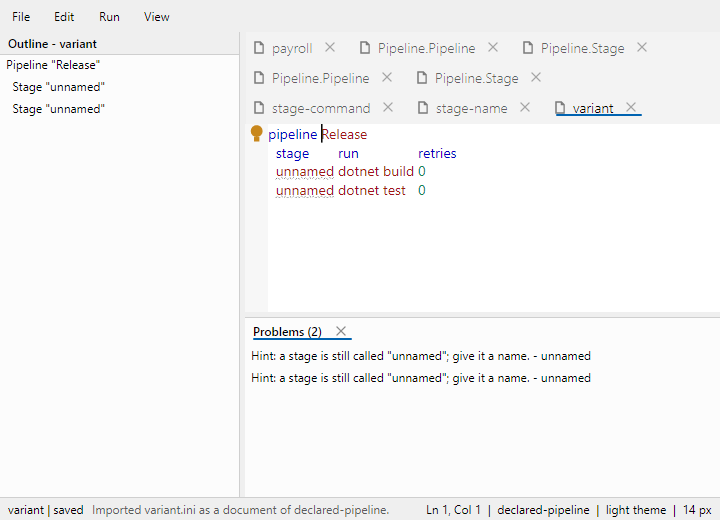
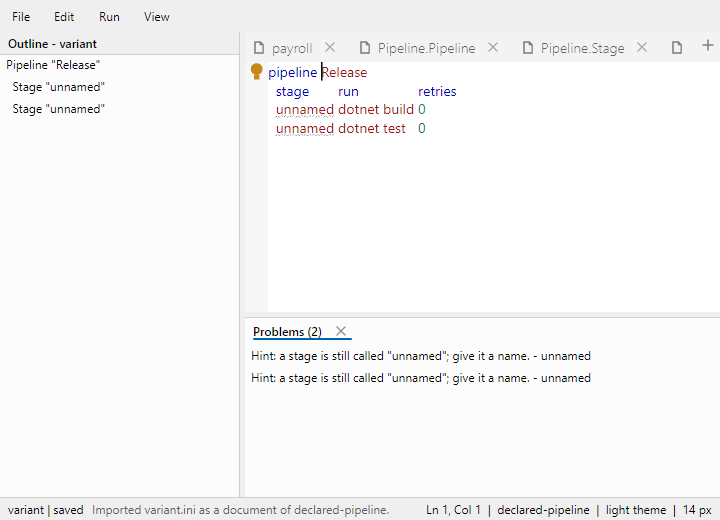
feat(workbench): a tab strip that scrolls, and the details a shell is judged on
Five things the last pass left visible:

- The document strip wrapped into rows, so eight tabs cost three rows of the page. It now scrolls
  sideways (its own ControlTheme, because the stock TabControl template has no ScrollViewer) and
  leaves a gap at the right end for a "+" that opens an empty document.
- A panel row moved the caret on SelectionChanged, which fires for arrow keys too - arrowing
  through Problems dragged the document along. The jump is a double click or Enter now, in all
  three lists.
- The window title was "Projectional Workbench" whatever was open; it names the document and
  its dirty state, which is what the task bar and Alt-Tab show.
- Closing the problems tab threw its count away. While the tab is not in the strip the status
  bar offers "2 problems" and opens it again on a press.
- A long status message was trimmed with no way to read the rest; it carries the whole sentence
  as a tooltip.

And a file dragged onto the window opens: a saved model as a document, anything else through the
importers, with "copy" shown while it is over the window so the gesture looks possible before it
is tried.

The panel close and toggle handlers now refresh the status bar, which is what makes the count
appear the moment a tab is put away.

diff --git a/src/Projectional.Workbench/MainWindow.axaml.cs b/src/Projectional.Workbench/MainWindow.axaml.cs
@@ -61,6 +61,9 @@ public sealed partial class MainWindow : Window, IDisposable
     /// <summary>The least a drag may leave of the panel area, so the splitter cannot lose it.</summary>
     private const double MinimumPanelHeight = 96;
 
+    /// <summary>What the window is called when no document decides it, and the half that stays.</summary>
+    private const string WindowTitle = "Projectional Workbench";
+
     private readonly DocumentSet _documents = new();
     private readonly WorkbenchLanguage _language = new();
     private readonly Dictionary<DocumentTab, TabItem> _tabs = [];
@@ -129,6 +132,12 @@ public sealed partial class MainWindow : Window, IDisposable
         ActualThemeVariantChanged += OnActualThemeVariantChanged;
         Documents.SelectionChanged += OnSelectionChanged;
         Opened += (_, _) => FocusActiveDocument();
+
+        // A file dragged in from the desktop is the shortest way to open it. The window is the target, so the
+        // gesture works wherever the pointer happens to be - over a panel, the outline or the page.
+        DragDrop.SetAllowDrop(this, true);
+        AddHandler(DragDrop.DragOverEvent, OnDragOver);
+        AddHandler(DragDrop.DropEvent, OnDrop);
 
         // Read once at startup: a list read per opening would be a list the menu and the shell could disagree about,
         // and a broken file must cost one empty menu rather than an exception on every open.
@@ -278,6 +287,7 @@ public sealed partial class MainWindow : Window, IDisposable
 
         Documents.Items.Add(tab);
         Documents.SelectedItem = tab;
+        tab.BringIntoView();
 
         ShowProblems();
         ShowOutput();
@@ -407,6 +417,9 @@ public sealed partial class MainWindow : Window, IDisposable
         if (_tabs.TryGetValue(document, out var tab))
         {
             Documents.SelectedItem = tab;
+
+            // The strip scrolls now, so a tab that was off the right edge has to be scrolled to.
+            tab.BringIntoView();
         }
     }
 
@@ -949,9 +962,8 @@ public sealed partial class MainWindow : Window, IDisposable
     /// editor and leaves the user where the row pointed - so the next keystroke, or Alt+Enter for the fix, acts on the
     /// finding rather than on wherever the caret happened to be.
     /// </remarks>
-    private void OnProblemChosen(object? sender, SelectionChangedEventArgs e)
-    {
-        if (Problems.SelectedItem is not ProblemEntry entry
+    private void OnProblemChosen(object? sender, RoutedEventArgs e)
+    {        if (Problems.SelectedItem is not ProblemEntry entry
             || _documents.Active is not { } document
             || !_tabs.TryGetValue(document, out var tab)
             || EditorOf(tab) is not { } editor)
@@ -1040,6 +1052,7 @@ public sealed partial class MainWindow : Window, IDisposable
     {
         _usagesClosed = true;
         ShowPanel(UsagesTab, false);
+        UpdateStatus();
     }
 
     /// <summary>Closes the output tab; the next run is what brings it back.</summary>
@@ -1047,6 +1060,7 @@ public sealed partial class MainWindow : Window, IDisposable
     {
         _outputClosed = true;
         ShowOutput();
+        UpdateStatus();
     }
 
     /// <summary>Closes the problems tab; View ▸ Panels is what brings it back.</summary>
@@ -1054,18 +1068,67 @@ public sealed partial class MainWindow : Window, IDisposable
     {
         _problemsClosed = true;
         ShowProblems();
+        UpdateStatus();
     }
 
     private void OnToggleOutputPanel(object? sender, RoutedEventArgs e)
     {
         _outputClosed = !_outputClosed;
         ShowOutput();
+        UpdateStatus();
     }
 
     private void OnToggleProblemsPanel(object? sender, RoutedEventArgs e)
     {
         _problemsClosed = !_problemsClosed;
         ShowProblems();
+        UpdateStatus();
+    }
+
+    /// <summary>Brings the problems tab back from the status bar's count.</summary>
+    private void OnShowProblemsPanel(object? sender, RoutedEventArgs e)
+    {
+        _problemsClosed = false;
+        ShowProblems();
+        PanelTabs.SelectedItem = ProblemsTab;
+        UpdateStatus();
+    }
+
+    /// <summary>Enter on a chosen row does what a double click does, so a list is usable without a pointer.</summary>
+    private void OnProblemKeyDown(object? sender, KeyEventArgs e)
+    {
+        if (e.Key != Key.Enter)
+        {
+            return;
+        }
+
+        e.Handled = true;
+
+        OnProblemChosen(sender, e);
+    }
+
+    private void OnUsageKeyDown(object? sender, KeyEventArgs e)
+    {
+        if (e.Key != Key.Enter)
+        {
+            return;
+        }
+
+        e.Handled = true;
+
+        OnUsageChosen(sender, e);
+    }
+
+    private void OnRunRowKeyDown(object? sender, KeyEventArgs e)
+    {
+        if (e.Key != Key.Enter)
+        {
+            return;
+        }
+
+        e.Handled = true;
+
+        OnRunRowChosen(sender, e);
     }
 
     private void OnToggleUsagesPanel(object? sender, RoutedEventArgs e)
@@ -1080,6 +1143,8 @@ public sealed partial class MainWindow : Window, IDisposable
         {
             SyncUsages();
         }
+
+        UpdateStatus();
     }
 
     /// <summary>Re-asks the open question, or closes the tab when it can no longer be answered.</summary>
@@ -1223,7 +1288,7 @@ public sealed partial class MainWindow : Window, IDisposable
     /// the list is a snapshot and the model is not - both halves are <see cref="PlaceResolver"/>'s now, since the
     /// problems panel asks the same question of the same kind of address.
     /// </remarks>
-    private void OnUsageChosen(object? sender, SelectionChangedEventArgs e)
+    private void OnUsageChosen(object? sender, RoutedEventArgs e)
     {
         if (Usages.SelectedItem is not UsageEntry entry)
         {
@@ -1395,7 +1460,7 @@ public sealed partial class MainWindow : Window, IDisposable
     /// The pick is cleared afterwards, so the same row is clickable twice: a trace is something a user reads back
     /// and forth between the document and the panel, unlike a problem, which is a state they are working through.
     /// </remarks>
-    private void OnRunRowChosen(object? sender, SelectionChangedEventArgs e)
+    private void OnRunRowChosen(object? sender, RoutedEventArgs e)
     {
         if (_documents.Active is not { } document)
         {
@@ -1604,9 +1669,17 @@ public sealed partial class MainWindow : Window, IDisposable
             ? "No document open"
             : $"{active.Title}{FormatFile(active.FilePath)} | {(_documents.AnyUnsaved ? "unsaved changes" : "saved")}";
 
+        // The task bar and Alt-Tab are part of the shell too, and they said "Projectional Workbench" whatever
+        // was open - including whether it had unsaved changes.
+        Title = _documents.Active is { } shown
+            ? $"{(shown.IsDirty ? "*" : string.Empty)}{shown.Title} - {WindowTitle}"
+            : WindowTitle;
+
         // The message goes last and is not cleared here: it is the answer to the command the user just
-        // ran, and the next command clears it, so it cannot go stale while the user reads it.
+        // ran, and the next command clears it, so it cannot go stale while the user reads it. It is also
+        // trimmed when it is long, so the tooltip is where the whole sentence lives.
         StatusText.Text = _error ?? string.Empty;
+        ToolTip.SetTip(StatusText, string.IsNullOrEmpty(_error) ? null : _error);
 
         UpdateStatusDetail();
 
@@ -1686,14 +1759,21 @@ public sealed partial class MainWindow : Window, IDisposable
     /// <summary>Says which panels are in the area, and which ones could be.</summary>
     private void UpdatePanelCommands()
     {
+        var problems = _documents.Active?.Problems ?? [];
+
         OutputPanelItem.IsEnabled = _documents.Active?.Output is not null;
         OutputPanelItem.IsChecked = IsPanelOpen(OutputTab);
 
-        ProblemsPanelItem.IsEnabled = _documents.Active?.Problems is { Count: > 0 };
+        ProblemsPanelItem.IsEnabled = problems.Count > 0;
         ProblemsPanelItem.IsChecked = IsPanelOpen(ProblemsTab);
 
         UsagesPanelItem.IsEnabled = _usageTarget is not null;
         UsagesPanelItem.IsChecked = IsPanelOpen(UsagesTab);
+
+        // The count is shown while the tab is not: a user who closed it still has to know the document is not
+        // clean, and the status bar is where the rest of the document's state lives.
+        StatusProblems.IsVisible = problems.Count > 0 && !IsPanelOpen(ProblemsTab);
+        StatusProblems.Content = problems.Count == 1 ? "1 problem" : $"{problems.Count} problems";
     }
 
     /// <summary>The editor of the document in front, or <see langword="null"/> when there is none.</summary>
@@ -1949,6 +2029,48 @@ public sealed partial class MainWindow : Window, IDisposable
             editor.Refresh();
         }
     }
+
+    /// <summary>Opens the documents the user dragged onto the window.</summary>
+    /// <remarks>
+    /// A saved model opens as a document; anything else is offered to the importers, which is the same command
+    /// the File menu runs and speaks its own refusal when it cannot read the file. Which of the two applies is
+    /// the file's extension and not a guess: a <c>.mps</c> file is a model this app wrote.
+    /// </remarks>
+    private void OnDrop(object? sender, DragEventArgs e)
+    {
+        if (e.DataTransfer.TryGetFiles() is not { Length: > 0 } files)
+        {
+            return;
+        }
+
+        e.Handled = true;
+
+        foreach (var file in files)
+        {
+            if (file.TryGetLocalPath() is not { } path)
+            {
+                _error = "A dropped file has no path this app can read.";
+                continue;
+            }
+
+            if (path.EndsWith(DocumentFile.Extension, StringComparison.OrdinalIgnoreCase))
+            {
+                TryOpenPath(path);
+            }
+            else
+            {
+                ImportPath(path);
+            }
+        }
+
+        UpdateStatus();
+    }
+
+    /// <summary>Says "copy" while files are dragged over the window, so the gesture looks possible before it is tried.</summary>
+    private void OnDragOver(object? sender, DragEventArgs e) =>
+        e.DragEffects = e.DataTransfer.TryGetFiles() is { Length: > 0 }
+            ? DragDropEffects.Copy
+            : DragDropEffects.None;
 
     private static string FormatFile(string? filePath) =>
         filePath is null ? string.Empty : $" ({Path.GetFileName(filePath)})";

diff --git a/docs/implemented.md b/docs/implemented.md
@@ -281,7 +281,7 @@ alone, and `docs/architecture/standalone.md` describes the extraction M6 owns.
 | CI: Release build and tests on Windows and Linux, corpus job on Linux, one-package-per-project `pack` job and a tag-gated `publish-nuget` job | `.github/workflows/ci.yml` | the workflow |
 | Byte-identical round trip over the whole corpus | `tests/Projectional.Core.Tests/Corpus/` | `CorpusTests` |
 | What a full recheck costs, measured rather than argued: layout, constraints, checks and one rechecked node for a document of each size, in two languages | `tools/Projectional.Benchmarks/` | `dotnet run -c Release --project tools/Projectional.Benchmarks`; the numbers it answered with are recorded in [constraints.md](architecture/semantics/constraints.md#what-a-full-recheck-costs) |
-| The shell's chrome: one panel area under the document instead of three stacked borders - Output, Problems and Usages are tabs of a strip that a `GridSplitter` resizes, each tab closable from its own header and reopened from **View ▸ Panels**, and the strip disappears when the last tab does. The outline is a resizable column whose header names the document it lists. The Edit menu gains Undo/Redo/Cut/Copy/Paste/Select all, the five "new ..." commands move under **File ▸ New**, and every gesture is *displayed* right-aligned (`InputGesture`) rather than spelled into the header - the editor control still owns the keys. A tab carries a close button beside its dirty star, the status bar is one line (document and dirty state left, the last command's answer in the middle, `Ln`/`Col`, language, theme and size right), a window with nothing open shows a page instead of a white rectangle, the find bar keeps its replace row folded until it is asked for (`Ctrl+H`, or the toggle), and the surfaces, type sizes and row heights are named resources in one style block instead of a font size beside every control | `Projectional.Workbench/MainWindow.axaml` (the theme dictionaries, the style block, the panel tabs, both splitters, the tab header template of the strip), `MainWindow.axaml.cs` (`ShowPanel`/`UpdatePanelArea`/`RevealOutput`, `OnUndo`-`OnSelectAll`, `UpdateStatusDetail`, `OnCaretMoved`), `Documents/DocumentTabHeader`, `Projectional.Editing/CaretSpot`, `Projectional.Avalonia` (`ProjectionalEditorControl.SelectionChanged`) | `CaretSpotTests` (a nested node's row, the column into the caret's cell, the end of a value, and a hard-wrapped second line starting its column again); the rest is wiring, and `tools/Projectional.Screenshots` renders the shipping window, which is where the strip, the tab headers, the empty page and the one-line status bar are checked |
+| The shell's chrome: one panel area under the document instead of three stacked borders - Output, Problems and Usages are tabs of a strip that a `GridSplitter` resizes, each tab closable from its own header and reopened from **View ▸ Panels**, and the strip disappears when the last tab does. The outline is a resizable column whose header names the document it lists. The Edit menu gains Undo/Redo/Cut/Copy/Paste/Select all, the five "new ..." commands move under **File ▸ New**, and every gesture is *displayed* right-aligned (`InputGesture`) rather than spelled into the header - the editor control still owns the keys. A tab carries a close button beside its dirty star, the status bar is one line (document and dirty state left, the last command's answer in the middle, `Ln`/`Col`, language, theme and size right), a window with nothing open shows a page instead of a white rectangle, the find bar keeps its replace row folded until it is asked for (`Ctrl+H`, or the toggle), and the surfaces, type sizes and row heights are named resources in one style block instead of a font size beside every control. **Then the details a shell is judged on**: the document strip scrolls sideways instead of wrapping into rows and has a "+" at its right end, a panel's count survives its tab being closed (the status bar offers "2 problems" and opens the tab again), a panel row moves the caret on a double click or Enter rather than on every arrow key, the window title names the open document and its dirty state, a long status line carries its whole sentence in a tooltip, and a file dragged onto the window opens as a document or is offered to the importers | `Projectional.Workbench/MainWindow.axaml` (the theme dictionaries, the style block, the panel tabs, both splitters, `DocumentTabStripTheme`, the status bar), `MainWindow.axaml.cs` (`ShowPanel`/`UpdatePanelArea`/`RevealOutput`, `OnUndo`-`OnSelectAll`, `UpdateStatusDetail`, `OnCaretMoved`, `OnDrop`/`OnDragOver`, `UpdatePanelCommands`), `Documents/DocumentTabHeader`, `Projectional.Editing/CaretSpot`, `Projectional.Avalonia` (`ProjectionalEditorControl.SelectionChanged`) | `CaretSpotTests` (a nested node's row, the column into the caret's cell, the end of a value, and a hard-wrapped second line starting its column again); the rest is wiring, and `tools/Projectional.Screenshots` renders the shipping window, which is where the strip, the tab headers, the empty page and the one-line status bar are checked |
 
 ## What is not here
 

diff --git a/README.md b/README.md
@@ -71,7 +71,7 @@ cd "dotnet projectional editor"
 dotnet run --project src/Projectional.Workbench
 ```
 
-The workbench opens with the sample rules language. Tabs hold documents and each one closes from the button in its header, the outline beside them lists the active document's nodes and is as wide as you drag it, and the status bar tracks the active one - the caret's line and column, the language, the theme and the font size. Output, Problems and Usages are tabs of one strip under the document: drag the splitter to size it, close a tab to give the page its room back, and **View ▸ Panels** brings it back. Closing a modified tab asks before it discards anything.
+The workbench opens with the sample rules language. Tabs hold documents and each one closes from the button in its header, the strip scrolls sideways when there are more than fit and a "+" at its right end opens an empty document, a file dragged onto the window opens as a document (or is offered to the importers), the outline beside the page lists the active document's nodes and is as wide as you drag it, and the status bar tracks the active one - the caret's line and column, the language, the theme and the font size, plus any problem count while the problems tab is closed. Output, Problems and Usages are tabs of one strip under the document: drag the splitter to size it, close a tab to give the page its room back, and **View ▸ Panels** brings it back. Closing a modified tab asks before it discards anything.
 
 | Menu | Entries |
 | --- | --- |
